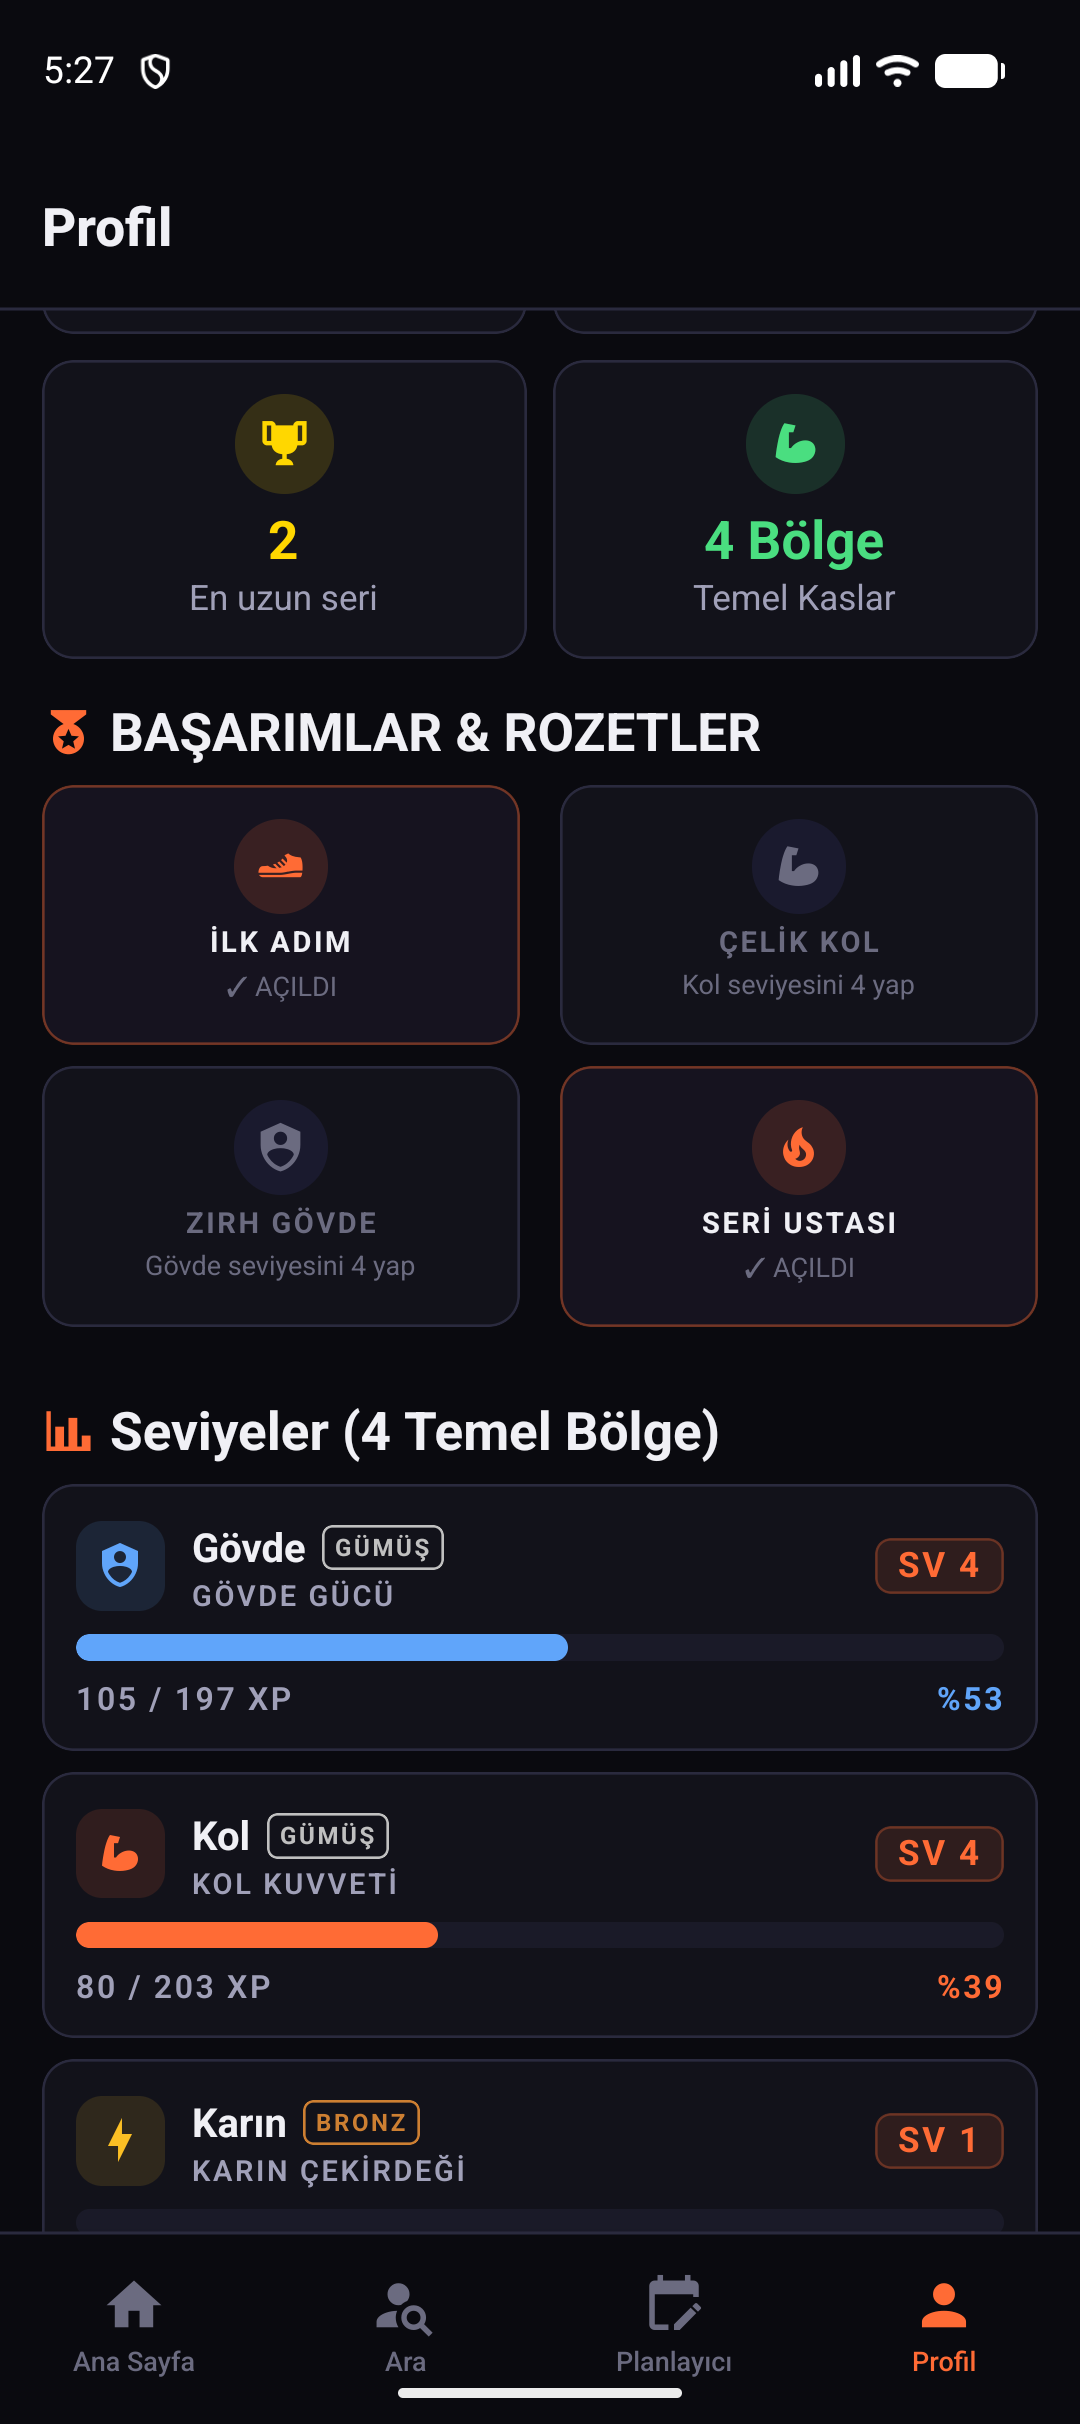
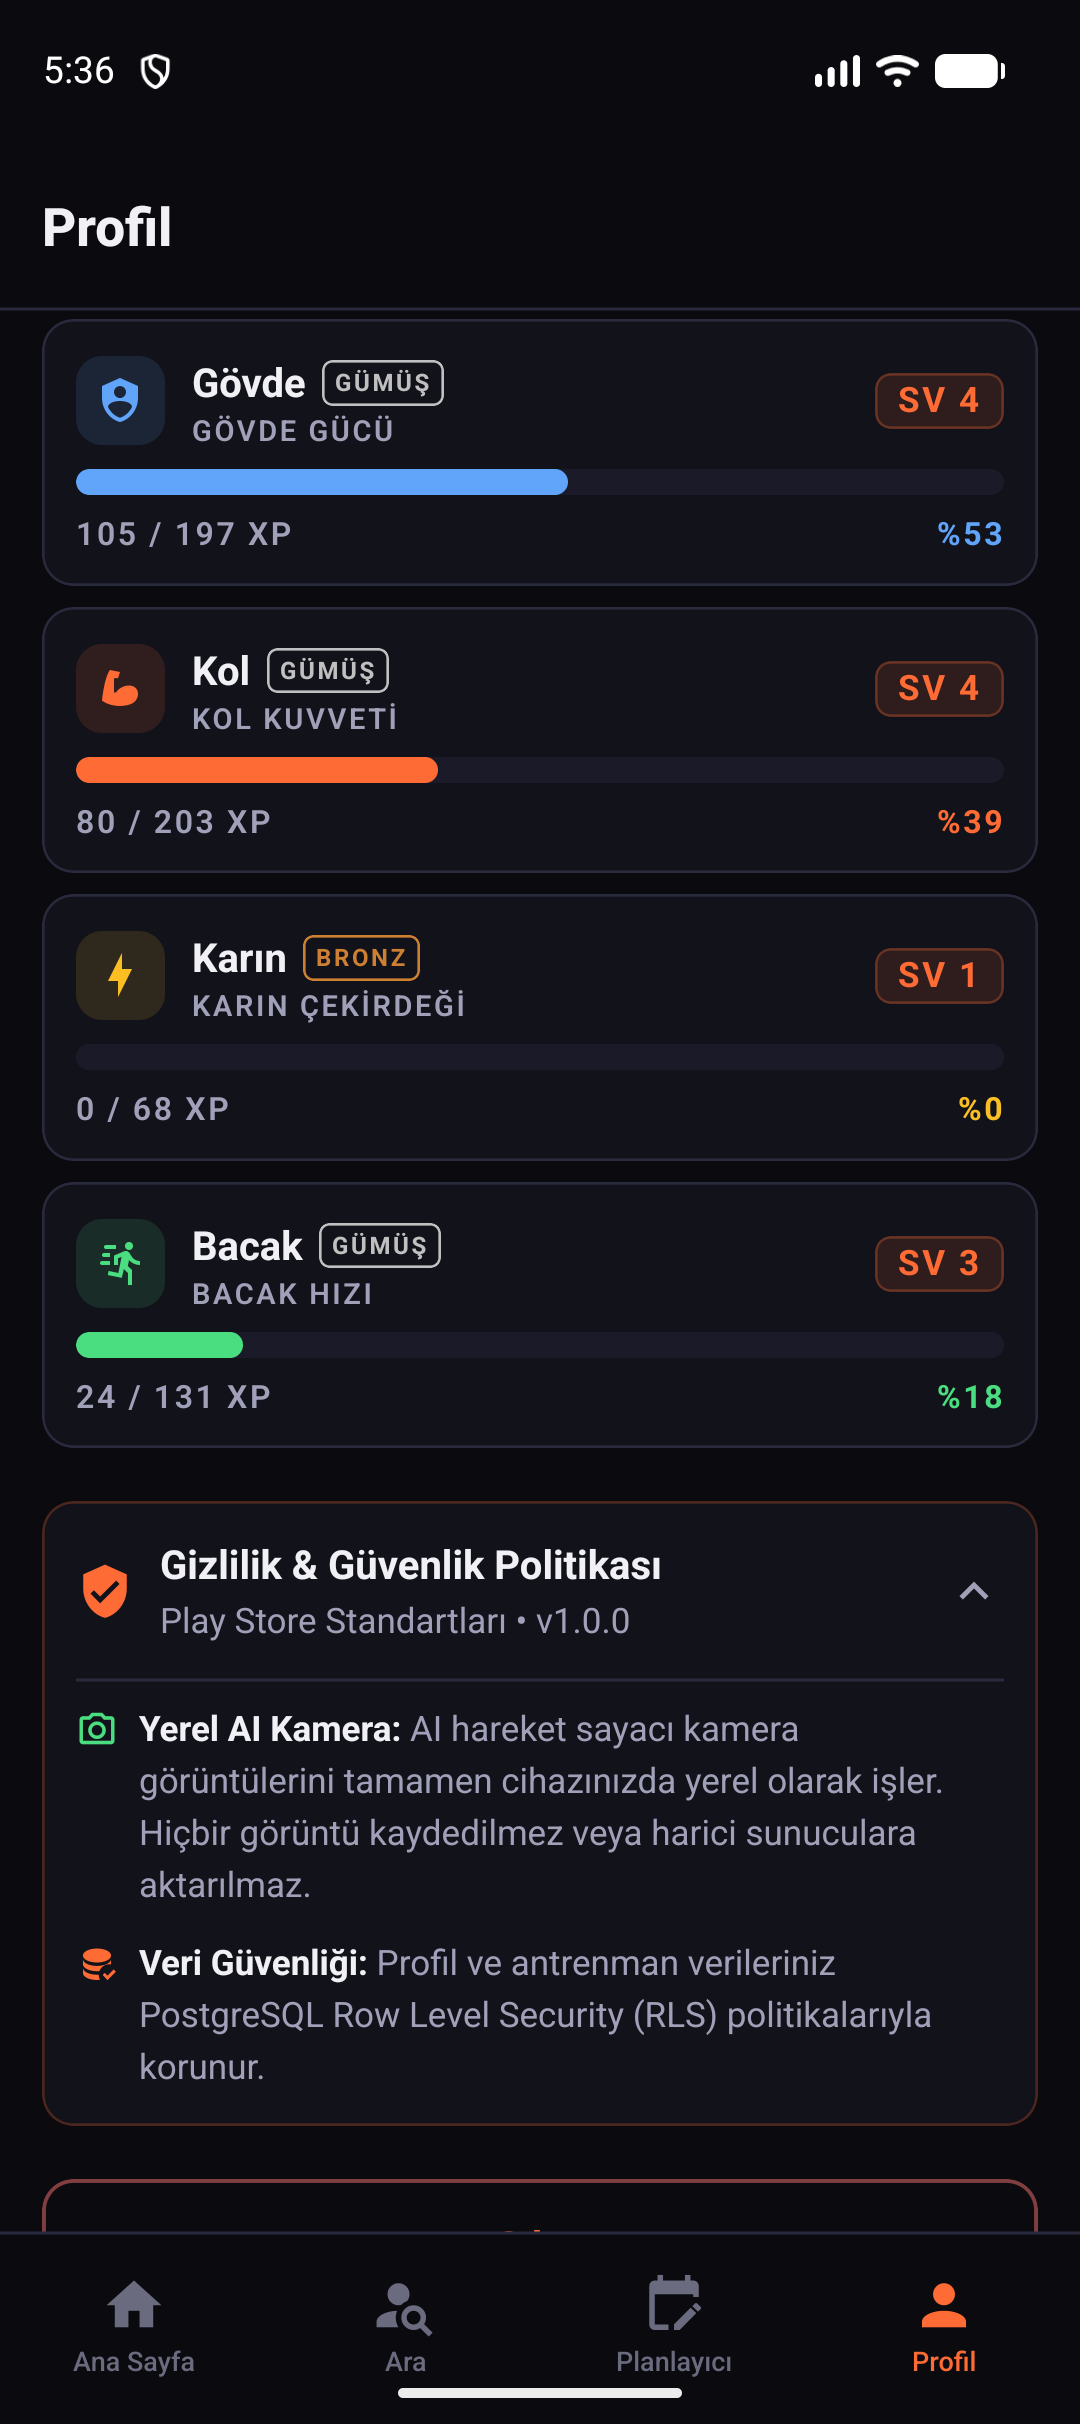
feat(compliance): Add Play Store Privacy Disclosure accordion, ProGuard rules, and haptic feedback on workout set completions

diff --git a/src/screens/ProfileScreen.tsx b/src/screens/ProfileScreen.tsx
@@ -1,5 +1,5 @@
-import React from 'react';
-import { ScrollView, StyleSheet, View } from 'react-native';
+import React, { useState } from 'react';
+import { ScrollView, StyleSheet, View, TouchableOpacity } from 'react-native';
 import { useTranslation } from 'react-i18next';
 import MaterialCommunityIcons from 'react-native-vector-icons/MaterialCommunityIcons';
 import { Typography, Button, Card } from '../components/ui';
@@ -31,6 +31,7 @@ export default function ProfileScreen() {
 
   const totalXp = progression?.total_xp ?? 0;
   const prestige = getPrestigeRank(totalXp);
+  const [privacyOpen, setPrivacyOpen] = useState(false);
 
   return (
     <ScrollView contentContainerStyle={styles.container} showsVerticalScrollIndicator={false}>
@@ -174,6 +175,51 @@ export default function ProfileScreen() {
         <Typography variant="bodyMuted">{t('profile.empty')}</Typography>
       )}
 
+      {/* Play Store & Privacy Policy Compliance Card */}
+      <Card style={styles.complianceCard}>
+        <TouchableOpacity
+          onPress={() => setPrivacyOpen(!privacyOpen)}
+          activeOpacity={0.8}
+          style={styles.complianceHeader}
+        >
+          <View style={{ flexDirection: 'row', alignItems: 'center', flex: 1 }}>
+            <MaterialCommunityIcons name="shield-check" size={22} color={theme.colors.accent.primary} />
+            <View style={{ marginLeft: 10 }}>
+              <Typography variant="body" bold>
+                Gizlilik & Güvenlik Politikası
+              </Typography>
+              <Typography variant="caption" color={theme.colors.text.secondary}>
+                Play Store Standartları • v1.0.0
+              </Typography>
+            </View>
+          </View>
+          <MaterialCommunityIcons
+            name={privacyOpen ? 'chevron-up' : 'chevron-down'}
+            size={22}
+            color={theme.colors.text.secondary}
+          />
+        </TouchableOpacity>
+
+        {privacyOpen && (
+          <View style={styles.complianceBody}>
+            <View style={styles.complianceRow}>
+              <MaterialCommunityIcons name="camera-outline" size={16} color={theme.colors.status.success} style={{ marginTop: 2 }} />
+              <Typography variant="caption" color={theme.colors.text.secondary} style={{ marginLeft: 8, flex: 1 }}>
+                <Typography variant="caption" bold color={theme.colors.text.primary}>Yerel AI Kamera: </Typography>
+                AI hareket sayacı kamera görüntülerini tamamen cihazınızda yerel olarak işler. Hiçbir görüntü kaydedilmez veya harici sunuculara aktarılmaz.
+              </Typography>
+            </View>
+            <View style={[styles.complianceRow, { marginTop: 10 }]}>
+              <MaterialCommunityIcons name="database-check" size={16} color={theme.colors.accent.primary} style={{ marginTop: 2 }} />
+              <Typography variant="caption" color={theme.colors.text.secondary} style={{ marginLeft: 8, flex: 1 }}>
+                <Typography variant="caption" bold color={theme.colors.text.primary}>Veri Güvenliği: </Typography>
+                Profil ve antrenman verileriniz PostgreSQL Row Level Security (RLS) politikalarıyla korunur.
+              </Typography>
+            </View>
+          </View>
+        )}
+      </Card>
+
       {/* Sign Out Action Button */}
       <Button
         title={t('auth.signOut')}
@@ -302,5 +348,28 @@ const styles = StyleSheet.create({
   signOut: {
     marginTop: theme.spacing.xl,
     borderColor: 'rgba(248, 113, 113, 0.5)',
+  },
+  complianceCard: {
+    marginTop: theme.spacing.xl,
+    padding: theme.spacing.md,
+    backgroundColor: theme.colors.background.secondary,
+    borderWidth: 1,
+    borderColor: 'rgba(255, 107, 53, 0.25)',
+    borderRadius: theme.borderRadius.md,
+  },
+  complianceHeader: {
+    flexDirection: 'row',
+    alignItems: 'center',
+    justifyContent: 'space-between',
+  },
+  complianceBody: {
+    marginTop: theme.spacing.md,
+    paddingTop: theme.spacing.sm,
+    borderTopWidth: 1,
+    borderTopColor: theme.colors.border,
+  },
+  complianceRow: {
+    flexDirection: 'row',
+    alignItems: 'flex-start',
   },
 });

diff --git a/src/screens/ActiveWorkoutScreen.tsx b/src/screens/ActiveWorkoutScreen.tsx
@@ -130,6 +130,9 @@ export default function ActiveWorkoutScreen() {
     };
 
     updateExerciseProgress(exerciseId, nextSets);
+    try {
+      Vibration.vibrate(isNowCompleted ? 45 : 15);
+    } catch (_) {}
   };
 
   const handleStartExerciseTimer = (exerciseId: string, timeSeconds: number) => {
